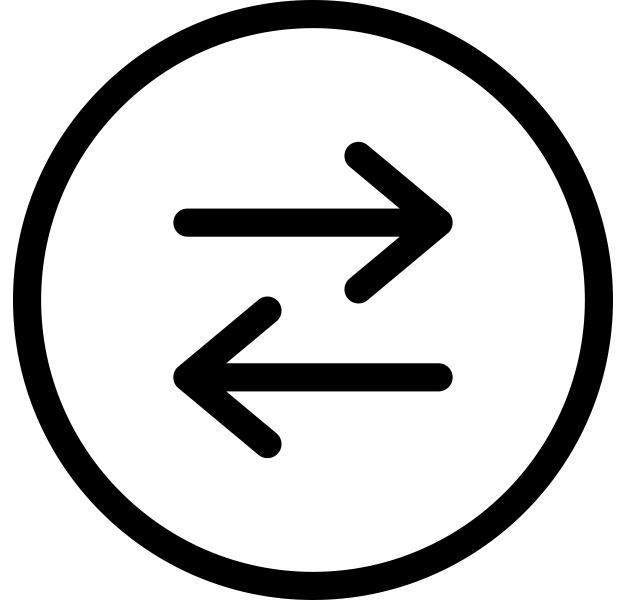
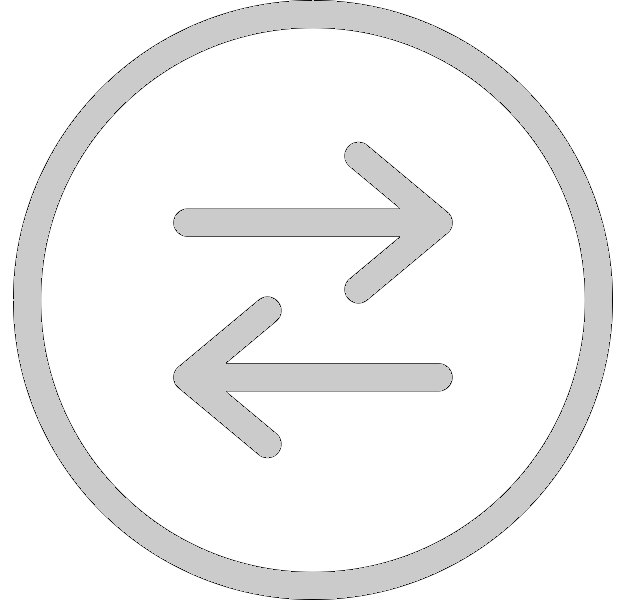
rethemed, looking pretty good

Changed region(s): [[0.0, 0.0, 0.9937, 0.9935], [0.271, 0.4657, 0.7227, 0.7451], [0.271, 0.2173, 0.7227, 0.4967]]

diff --git a/client/src/components/DashboardComponent/accountSettings/Settings.js b/client/src/components/DashboardComponent/accountSettings/Settings.js
@@ -9,9 +9,13 @@ import { withRouter } from 'react-router-dom';
 import env from '../../../../config/env';
 import Center from 'react-center';
 
-const buttonStyle = {
-  margin: 12
+const submitButtonStyle = {
+  backgroundColor: "#67c26f"
 };
+
+const cancelButtonStyle = {
+  backgroundColor: "#FF1744"
+}
 
 const exchanges = ['bittrex', 'bitfinex', 'bitstamp', 'hitbtc', 'binance',
   'poloniex', 'kraken', 'exmo', 'cexio', 'gateio'];
@@ -67,12 +71,12 @@ class Settings extends Component {
           this.setState({ data: stateChange });
         }
         else {
-          Alert.error("<span style='color:red'>Error fetching existing account settings: " +
+          Alert.error("<span style='color:#FF1744'>Error fetching existing account settings: " +
             res.data.message + "</span>", this.alertOptions);
         }
       })
       .catch((err) => {
-        Alert.error("<span style='color:red'>Error fetching existing account settings: " +
+        Alert.error("<span style='color:#FF1744'>Error fetching existing account settings: " +
           String(err) + "</span>", this.alertOptions);
       })
   }
@@ -103,17 +107,17 @@ class Settings extends Component {
 
     //validate password existance and length of new password
     if (!this.state.data.password || this.state.data.password.length < 6) {
-      Alert.warning("<span style='color:red'>Acount password with length of 6 or more characters must be"
+      Alert.warning("<span style='color:#FF1744'>Acount password with length of 6 or more characters must be"
         + " entered to save settings</span>", this.alertOptions);
       this.setState({ formDisabled: false });
     }
     else if (this.state.data.newPassword && this.state.data.newPassword.length < 6) {
-      Alert.warning("<span style='color:red'>Please make sure your new password is more than 6 characters "
+      Alert.warning("<span style='color:#FF1744'>Please make sure your new password is more than 6 characters "
         + "long</span>", this.alertOptions);
       this.setState({ formDisabled: false });
     }
     else if (this.state.data.newPassword === this.state.data.password){ 
-      Alert.warning("<span style='color:red'>New password must be different </span>", this.alertOptions);
+      Alert.warning("<span style='color:#FF1744'>New password must be different </span>", this.alertOptions);
       this.setState({ formDisabled: false });
     }
     //send request to edit settings
@@ -122,16 +126,16 @@ class Settings extends Component {
       axios.post(env.API_URL + '/auth/settings', this.state.data)
         .then((res) => {
           if (res.data.success === true) {
-            Alert.success("<span style='color:green'>" + res.data.message + "</span>", this.alertOptions);
+            Alert.success("<span style='color:#67c26f'>" + res.data.message + "</span>", this.alertOptions);
             this.setState({ formDisabled: false });
           }
           else {
-            Alert.error("<span style='color:red'>" + res.data.message + "</span>", this.alertOptions);
+            Alert.error("<span style='color:#FF1744'>" + res.data.message + "</span>", this.alertOptions);
             this.setState({ formDisabled: false });
           }
         })
         .catch((err) => {
-          Alert.error("<span style='color:red'>" + String(err) + "</span>", this.alertOptions);
+          Alert.error("<span style='color:#FF1744'>" + String(err) + "</span>", this.alertOptions);
           this.setState({ formDisabled: false });
         })
     }
@@ -196,9 +200,9 @@ class Settings extends Component {
               <Alert stack={{ limit: 2, spacing: 50 }} />
             </Center>
             <Center>
-              <RaisedButton label="Submit" type="submit" style={buttonStyle} />
-              <RaisedButton label="Cancel" type="button" style={buttonStyle} onClick={() =>
-                this.props.history.push("/")} />
+              <div style={{margin:"1%"}}><RaisedButton label="Submit" type="submit" buttonStyle={submitButtonStyle} /></div>
+              <div style={{margin:"1%"}}><RaisedButton label="Cancel" type="button" buttonStyle={cancelButtonStyle} onClick={() =>
+                this.props.history.push("/")} /></div>
             </Center>
           </form>
 

diff --git a/client/src/components/DashboardComponent/dataTable/Tableprices.js b/client/src/components/DashboardComponent/dataTable/Tableprices.js
@@ -62,10 +62,10 @@ export default class TableExampleComplex extends Component {
   stripedRows: false,
   showRowHover: false,
   selectable: false,
-  multiSelectable: false,
-  enableSelectAll: false,
-  deselectOnClickaway: false,
-  showCheckboxes: false,
+  // multiSelectable: false,
+  // enableSelectAll: false,
+  // deselectOnClickaway: false,
+  // showCheckboxes: false,
   height: '500px',
 };
 
@@ -87,31 +87,31 @@ export default class TableExampleComplex extends Component {
 
     return (
       <div id="container">
-      <div style={{width: '100%', backgroundColor: "#FFF"}}>
-        <Table style={{width: '75%',textAlign: 'center', backgroundColor: "#15202e", margin: 'auto'}}
+      <div style={{width: '100%'}}>
+        <Table style={{width: '75%',textAlign: 'center', margin: 'auto'}}
         height={this.state.height}
         fixedHeader={this.state.fixedHeader}
         fixedFooter={this.state.fixedFooter}
-        selectable={this.state.selectable}
-        multiSelectable={this.state.multiSelectable}
+        selectable={false}
+        // multiSelectable={this.state.multiSelectable}
         >
-          <TableHeader style={{textAlign: 'center', backgroundColor: "#607D8B"}}
-          displaySelectAll={this.state.showCheckboxes}
-          adjustForCheckbox={this.state.showCheckboxes}
-          enableSelectAll={this.state.enableSelectAll}
+          <TableHeader style={{textAlign: 'center'}}
+          displaySelectAll={false}
+          adjustForCheckbox={false}
+          // enableSelectAll={this.state.enableSelectAll}
 
           >
-            <TableRow style={{textAlign: 'center', backgroundColor: "#E0E0E0"}}>
-              <TableHeaderColumn tooltip="The Exchange">Exchange</TableHeaderColumn>
-              <TableHeaderColumn tooltip="The Price">Price</TableHeaderColumn>
-              <TableHeaderColumn tooltip="Currency Pair">Btc/Eth</TableHeaderColumn>
+            <TableRow style={{textAlign: 'center'}}>
+              <TableHeaderColumn style={{color:"#FF1744", fontSize:"32"}} tooltip="The Exchange">Exchange</TableHeaderColumn>
+              <TableHeaderColumn style={{color:"#FF1744" , fontSize:"32"}} tooltip="The Price">Price</TableHeaderColumn>
+              <TableHeaderColumn style={{color:"#FF1744" , fontSize:"32"}} tooltip="Currency Pair">Pair</TableHeaderColumn>
             </TableRow>
           </TableHeader>
-          <TableBody style={{textAlign: 'center', backgroundColor: "#fff"}}
-          displayRowCheckbox={this.state.showCheckboxes}
-          deselectOnClickaway={this.state.deselectOnClickaway}
+          <TableBody displayRowCheckbox={false} style={{textAlign: 'center'}}
+          // displayRowCheckbox={this.state.showCheckboxes}
+          // deselectOnClickaway={this.state.deselectOnClickaway}
           showRowHover={this.state.showRowHover}
-          stripedRows={this.state.stripedRows}
+          // stripedRows={this.state.stripedRows}
           // adjustForCheckbox={this.state.showCheckboxes}
           >
             {exchangeData.map( (row, index) => (

diff --git a/client/src/components/DashboardComponent/Dashboard.js b/client/src/components/DashboardComponent/Dashboard.js
@@ -10,6 +10,7 @@ import { Tabs, Tab } from 'material-ui/Tabs';
 import Alert from 'react-s-alert';
 import axios from 'axios';
 import env from '../../../config/env';
+import Center from 'react-center';
 
 
 const styles = {
@@ -23,12 +24,26 @@ const styles = {
     position: "absolute",
     right: "1%",
     top: "1%",
-    backgroundColor: "#E05757",
-    disabledBackgroundColor: "#E05757"
+    backgroundColor: "#FF1744",
+    width: "7%"
+    // disabledBackgroundColor: "#FF1744"
+  },
+  tabs: {
+    backgroundColor: "#67c26f",
+    color: "white"
+  },
+  tabsActive: {
+    // #139149
+    backgroundColor: "#FF1744"
+    // backgroundColor: "#FF1744"
   }
 };
 
 class Dashboard extends Component {
+
+  activeTab(e){
+    e.target.style=styles.tabsActive;
+  }
 
   _logOut() {
     axios.post(env.API_URL + '/auth/logout', {token: localStorage.getItem("token")})
@@ -50,8 +65,8 @@ class Dashboard extends Component {
   render() {
     return (
       <div className="Dashboard">
-        <h2>Dashboard</h2>
-        <RaisedButton label="Log Out" style={styles.logOut} onClick={() => this._logOut()} />
+        <Center><h1>Dashboard</h1></Center>
+        <RaisedButton label="Log Out" buttonStyle={styles.logOut} onClick={() => this._logOut()} />
         <Tabs>
           <Tab label="Prices" >
             <div>
@@ -63,11 +78,11 @@ class Dashboard extends Component {
           <Tab label=" Trades" >
             <div>
               <h2 style={styles.headline}>Suggested Trades</h2>
+              <br />
               <Suggestions />
             </div>
           </Tab>
-          <Tab
-            label="Settings">
+          <Tab label="Settings">
             <div>
               <h2 style={styles.headline}>Api Keys and Account Settings</h2>
               <Settings />

diff --git a/client/src/components/DashboardComponent/suggestions/Suggestions.js b/client/src/components/DashboardComponent/suggestions/Suggestions.js
@@ -40,13 +40,13 @@ export default class Suggestions extends Component {
                         <span className="red"><b>Buy</b></span></td>
                     </tr>
                     <tr>
-                      <td>Exchange: <b>{prices.ask.exchange}</b></td>
+                      <td>Exchange: <b className="red">{prices.ask.exchange}</b></td>
                     </tr>
                     <tr>
                       <td>Price: <span className="red">({prices.ask.price})</span></td>
                     </tr>
                     <tr>
-                      <td>Pair: <b>({prices.pair})</b></td>
+                      <td>Pair: <b className="red">({prices.pair})</b></td>
                     </tr>
 
                     <tr>
@@ -58,17 +58,17 @@ export default class Suggestions extends Component {
                       <td><span className="green"><b>Sell</b></span></td>
                     </tr>
                     <tr>
-                      <td>Exchange: <b>{prices.bid.exchange}</b></td>
+                      <td>Exchange: <b className="green">{prices.bid.exchange}</b></td>
                     </tr>
                     <tr>
                       <td>Price: <span className="green">({prices.bid.price})</span></td>
                     </tr>
                     <tr>
-                      <td>Pair: <b>({prices.pair})</b></td>
+                      <td>Pair: <b className="green">({prices.pair})</b></td>
                     </tr>
                     <tr>
                       <td>
-                        <b>Profit: {prices.profit}%</b></td>
+                        Profit: <b className="green">{prices.profit}%</b></td>
                     </tr>
                   </tbody>
                 </table>

diff --git a/client/src/components/App.js b/client/src/components/App.js
@@ -3,6 +3,8 @@ import Landing from './LandingComponent/Landing';
 import { withRouter, Redirect, BrowserRouter, Route, Switch } from 'react-router-dom';
 import Dashboard from './DashboardComponent/Dashboard';
 import MuiThemeProvider from 'material-ui/styles/MuiThemeProvider';
+import getMuiTheme from 'material-ui/styles/getMuiTheme';
+import darkBaseTheme from 'material-ui/styles/baseThemes/darkBaseTheme';
 
 //to protect the /Dashboard route
 //https://stackoverflow.com/a/42708437
@@ -34,11 +36,16 @@ function requireAuth(Component) {
   return withRouter(AuthenticatedComponent);
 }
 
+const tabTheme = getMuiTheme(darkBaseTheme);
+tabTheme.tabs = { backgroundColor: "#67c26f" };
+tabTheme.inkBar = {backgroundColor: "#FF1744" };
+
+
 class App extends Component {
   render() {
     // localStosrage.removeItem("token");
     return (
-      <MuiThemeProvider>
+      <MuiThemeProvider muiTheme={tabTheme}>
         <BrowserRouter>
           <div className="App">
             <Switch>

diff --git a/client/src/components/LandingComponent/GetStartedComponent/Login.css b/client/src/components/LandingComponent/GetStartedComponent/Login.css
@@ -4,7 +4,7 @@
 
 body {
   font-family: sans-serif;
-  background: #2f313d;
+  background: #303030;
   color: #46485c;
 }
 
@@ -77,7 +77,7 @@ input[type="button"]:focus {
   outline: none;
 }
 input[id="login"]:hover {
-  background: #139149;
+  background: #7FCC86;
 }
 input[id="login"]:active {
   transform: translateY(2px);
@@ -96,7 +96,7 @@ input[id="signup"] {
 }
 
 input[id="signup"]:hover {
-  background: #139149;
+  background: #7FCC86;
 }
 
 input[id="signup"]:active {

diff --git a/client/src/components/DashboardComponent/suggestions/Suggestions.css b/client/src/components/DashboardComponent/suggestions/Suggestions.css
@@ -1,7 +1,7 @@
 h2 {
   text-align: center;
   font-size: 20px;
-  color: #000;
+  /* color: #000; */
 }
 
 img.arrow {
@@ -18,7 +18,7 @@ img.arrow {
 }
 
 .card {
-  background-color: #fff;
+  /* background-color: #fff; */
   border-radius: 2px;
   display: inline-block;
   height: 210px;
@@ -32,10 +32,10 @@ table {
   margin: auto;
 }
 .green {
-  color: green;
+  color: #67c26f;
   font-weight: bold;
 }
 .red {
-  color: red;
+  color: #FF1744;
   font-weight: bold;
 }

diff --git a/client/src/components/LandingComponent/GetStartedComponent/GetStarted.css b/client/src/components/LandingComponent/GetStartedComponent/GetStarted.css
@@ -35,6 +35,7 @@ margin-left: 44%
   text-transform: uppercase;
   padding: 16px 36px 22px;
   background-color: #fff;
+  color: #303030;
   border-radius: 6px;
   -webkit-transition: all .5s ease;
   transition: all .5s ease;

diff --git a/client/src/components/LandingComponent/Space.css b/client/src/components/LandingComponent/Space.css
@@ -1,7 +1,7 @@
 .night-sky {
   display: block;
   position: absolute;
-  background: #2f313d;
+  background: #303030;
   top: 0;
   bottom: 0;
   left: 0;

diff --git a/client/src/components/DashboardComponent/Dashboard.css b/client/src/components/DashboardComponent/Dashboard.css
@@ -1,4 +1,4 @@
 body{
-  background-color: #FFFFFF;
-  font-color: #c1c6cb;
+  background-color: #303030;
+  color: white;
 }

diff --git a/client/src/components/DashboardComponent/dataTable/tabl.css b/client/src/components/DashboardComponent/dataTable/tabl.css
@@ -1,7 +1,5 @@
-font-family: 'Roboto', sans-serif;
 
 #container{
   margin: 0;
   text-align: center;
-
 }
